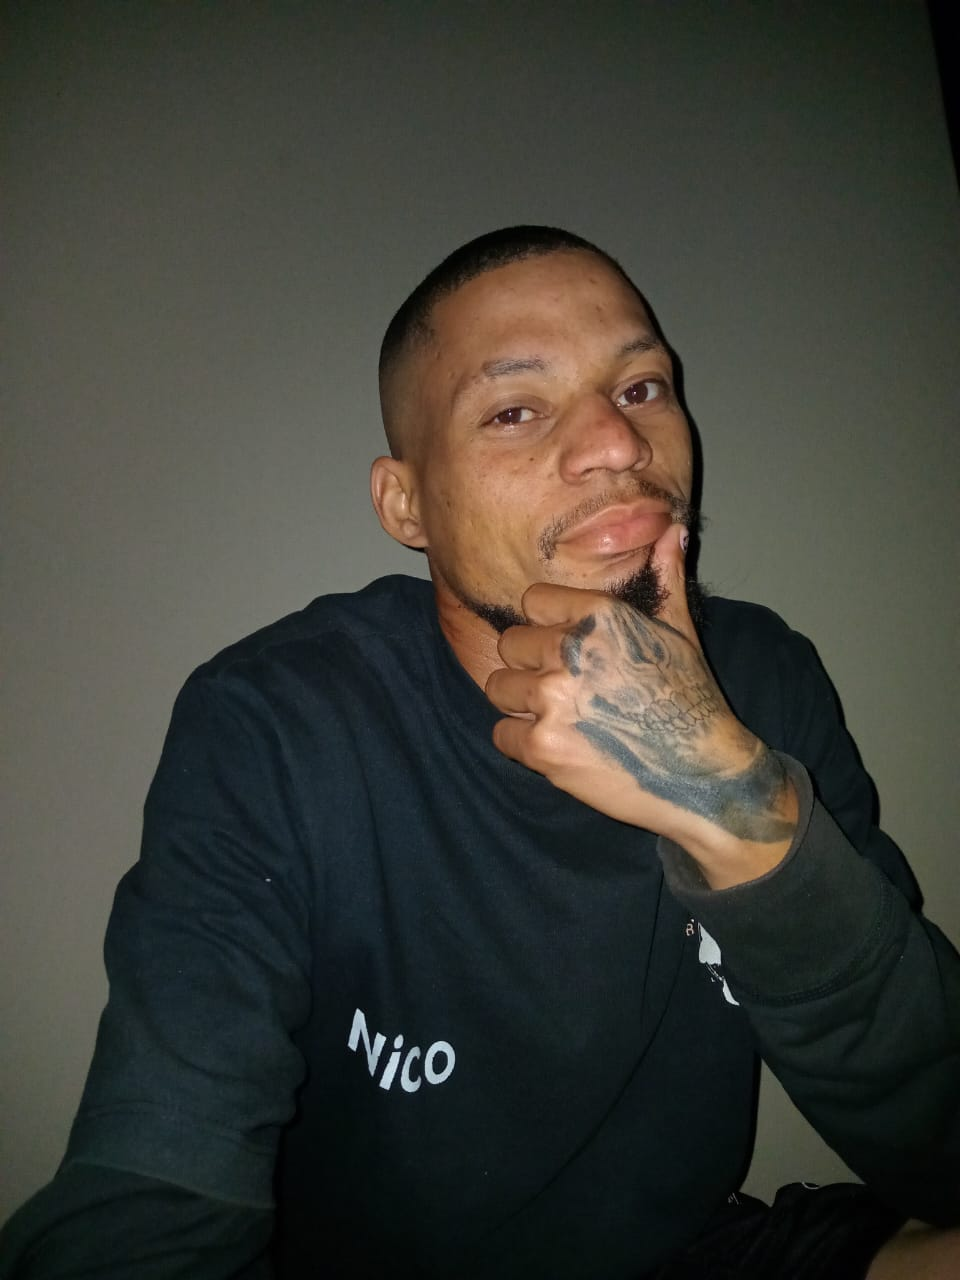
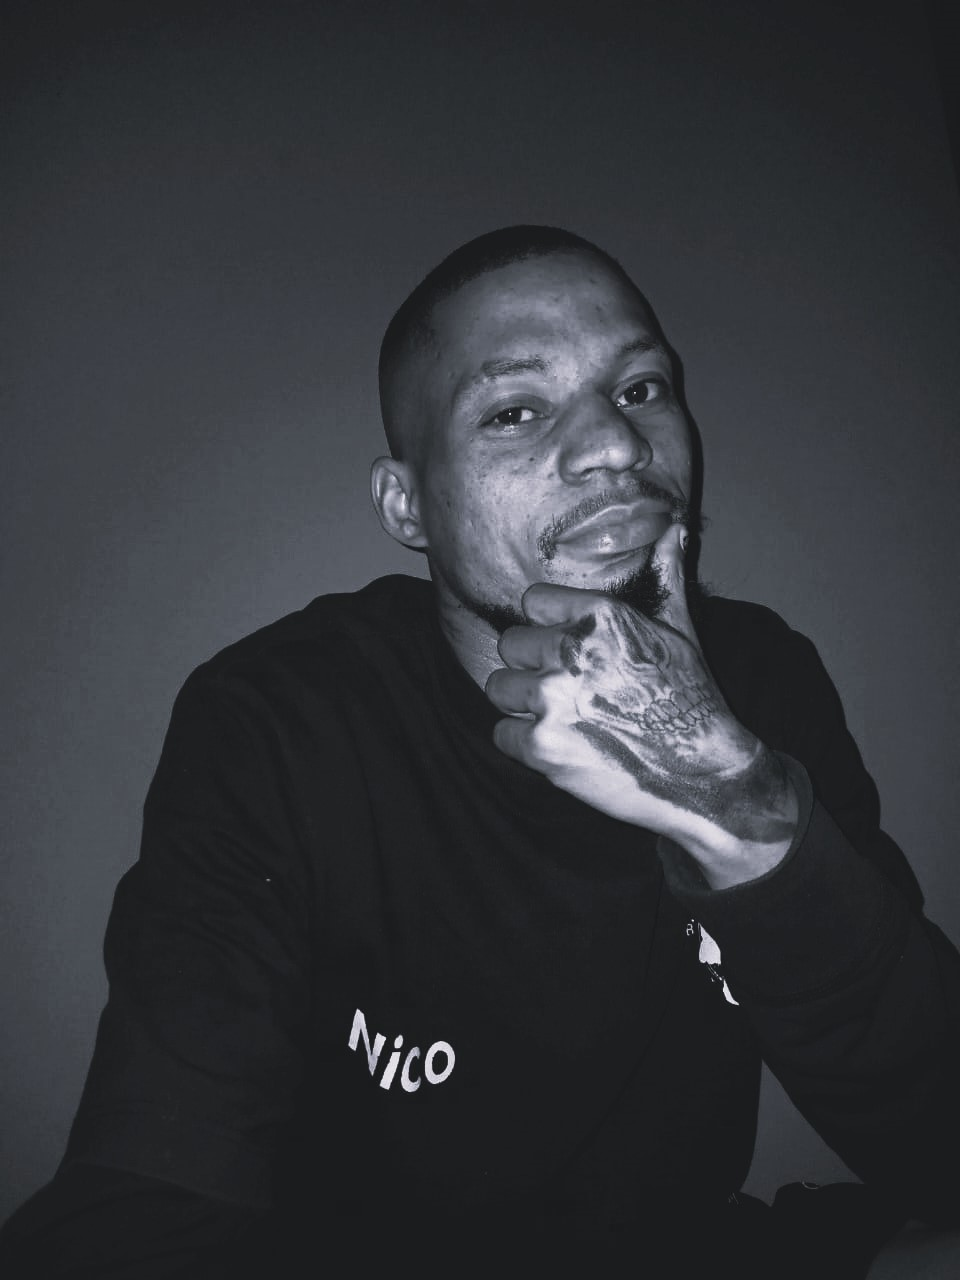
Addition of new artist and their content, font updated completely

diff --git a/app/components/ContactUs.js b/app/components/ContactUs.js
@@ -23,7 +23,7 @@ const contactData = [
     title: 'Phone',
     description: 'Reach out to us by phone',
     actionText: '060 742 6488',
-    actionLink: 'mailto:taglinetattoostudio@gmail.com',
+    actionLink: 'tel:+27607426488',
     icon: (
         <svg xmlns="http://www.w3.org/2000/svg" width="38" height="38" viewBox="0 0 38 38" fill="none">
             <path d="M30.4237 20.5833C30.0846 20.5833 29.73 20.4725 29.3908 20.3933C28.7045 20.2357 28.0297 20.0294 27.3712 19.7758C26.656 19.5086 25.8699 19.5225 25.164 19.8148C24.4582 20.1071 23.8826 20.6572 23.5479 21.3592L23.2087 22.0875C21.7115 21.2154 20.3283 20.1513 19.0925 18.9208C17.8944 17.6516 16.8583 16.231 16.0092 14.6933L16.7183 14.3608C17.4018 14.0171 17.9374 13.4259 18.222 12.701C18.5067 11.9761 18.5202 11.1687 18.26 10.4342C18.0151 9.7518 17.8143 9.05363 17.6587 8.34417C17.5817 7.99584 17.52 7.63167 17.4737 7.28334C17.2865 6.16807 16.7177 5.1581 15.8698 4.4353C15.0219 3.7125 13.9506 3.32439 12.8487 3.34084H8.20832C7.55657 3.33996 6.91201 3.48056 6.31687 3.75343C5.72174 4.02629 5.18948 4.42526 4.75498 4.92417C4.31148 5.43662 3.98125 6.04161 3.78698 6.69756C3.59271 7.35351 3.53901 8.04489 3.62957 8.72417C4.4676 15.3142 7.39927 21.4362 11.97 26.1408C16.5508 30.8351 22.5117 33.846 28.9283 34.7067C29.1284 34.7224 29.3294 34.7224 29.5296 34.7067C30.6664 34.7084 31.7641 34.28 32.6129 33.5033C33.0987 33.0571 33.4871 32.5105 33.7528 31.8992C34.0185 31.288 34.1554 30.626 34.1546 29.9567V25.2067C34.1463 24.1126 33.7705 23.0551 33.0907 22.2127C32.411 21.3704 31.4689 20.7948 30.4237 20.5833ZM31.1791 30.0833C31.1786 30.3043 31.1331 30.5227 31.0455 30.7245C30.9579 30.9263 30.8301 31.107 30.6704 31.255C30.5014 31.4131 30.3004 31.5306 30.0817 31.5991C29.8631 31.6676 29.6323 31.6852 29.4062 31.6508C23.6532 30.8792 18.3066 28.1865 14.19 23.9875C10.0698 19.756 7.4252 14.2458 6.66665 8.31251C6.63316 8.08028 6.65037 7.84332 6.71702 7.61877C6.78368 7.39422 6.89813 7.1877 7.05207 7.01417C7.19794 6.84816 7.3764 6.71577 7.57569 6.62571C7.77499 6.53565 7.99059 6.48997 8.20832 6.49167H12.8333C13.1897 6.48273 13.5381 6.6009 13.8192 6.82607C14.1002 7.05124 14.2967 7.3695 14.375 7.72667C14.375 8.15417 14.5137 8.59751 14.6062 9.025C14.7844 9.85446 15.0214 10.6694 15.3154 11.4633L13.1571 12.5083C12.7861 12.6832 12.4978 13.0021 12.3554 13.395C12.2012 13.7805 12.2012 14.2129 12.3554 14.5983C14.5742 19.4794 18.3945 23.4029 23.1471 25.6817C23.5224 25.84 23.9434 25.84 24.3187 25.6817C24.7013 25.5354 25.0118 25.2393 25.1821 24.8583L26.1533 22.6417C26.9487 22.9395 27.7624 23.1828 28.5891 23.37C28.99 23.465 29.4217 23.5442 29.8379 23.6075C30.1857 23.6879 30.4956 23.8897 30.7148 24.1784C30.934 24.467 31.0491 24.8248 31.0404 25.1908L31.1791 30.0833ZM22.0833 3.16667C21.7287 3.16667 21.3587 3.16667 21.0042 3.16667C20.5953 3.20237 20.217 3.40341 19.9524 3.72558C19.6879 4.04776 19.5588 4.46466 19.5935 4.88459C19.6283 5.30451 19.824 5.69306 20.1377 5.96476C20.4514 6.23645 20.8574 6.36903 21.2662 6.33334H22.0833C24.5366 6.33334 26.8893 7.33423 28.6241 9.11582C30.3588 10.8974 31.3333 13.3138 31.3333 15.8333C31.3333 16.1183 31.3333 16.3875 31.3333 16.6725C31.2991 17.0902 31.4276 17.5048 31.6906 17.8253C31.9536 18.1459 32.3296 18.3463 32.7362 18.3825H32.8596C33.2455 18.3841 33.618 18.237 33.9034 17.9702C34.1889 17.7035 34.3665 17.3364 34.4012 16.9417C34.4012 16.5775 34.4012 16.1975 34.4012 15.8333C34.4012 12.4767 33.104 9.25725 30.7943 6.88225C28.4847 4.50724 25.3516 3.17087 22.0833 3.16667ZM25.1667 15.8333C25.1667 16.2533 25.3291 16.656 25.6182 16.9529C25.9073 17.2499 26.2994 17.4167 26.7083 17.4167C27.1172 17.4167 27.5093 17.2499 27.7984 16.9529C28.0876 16.656 28.25 16.2533 28.25 15.8333C28.25 14.1536 27.6003 12.5427 26.4438 11.355C25.2873 10.1673 23.7188 9.50001 22.0833 9.50001C21.6744 9.50001 21.2823 9.66682 20.9932 9.96375C20.7041 10.2607 20.5417 10.6634 20.5417 11.0833C20.5417 11.5033 20.7041 11.906 20.9932 12.2029C21.2823 12.4999 21.6744 12.6667 22.0833 12.6667C22.9011 12.6667 23.6853 13.0003 24.2636 13.5942C24.8418 14.188 25.1667 14.9935 25.1667 15.8333Z" fill="white"/>
@@ -33,9 +33,9 @@ const contactData = [
   {
     id: 3,
     title: 'Location',
-    description: 'Find us at our Phokeng',
-    actionText: 'Tagline',
-    actionLink: 'mailto:taglinetattoostudio@gmail.com',
+    description: 'Find us at',
+    actionText: 'Tagline Markos',
+    actionLink: 'https://maps.app.goo.gl/mXD1v4SypVxBj9vx8',
     icon: (
         <svg xmlns="http://www.w3.org/2000/svg" width="38" height="38" viewBox="0 0 38 38" fill="none">
             <path d="M31.7091 15.2475C31.4927 12.9341 30.6966 10.7177 29.3984 8.81412C28.1003 6.91054 26.3443 5.38464 24.3014 4.38503C22.2585 3.38541 19.9984 2.94614 17.7412 3.10998C15.4839 3.27383 13.3065 4.03522 11.4208 5.32C9.8008 6.43252 8.44083 7.89972 7.43858 9.6162C6.43633 11.3327 5.81667 13.2558 5.62413 15.2475C5.43524 17.2261 5.67758 19.2231 6.33355 21.0936C6.98953 22.9641 8.04269 24.6611 9.41663 26.0617L17.5875 34.4692C17.7308 34.6176 17.9013 34.7354 18.0892 34.8157C18.277 34.8961 18.4785 34.9375 18.682 34.9375C18.8856 34.9375 19.0871 34.8961 19.2749 34.8157C19.4628 34.7354 19.6333 34.6176 19.7766 34.4692L27.9166 26.0617C29.2906 24.6611 30.3437 22.9641 30.9997 21.0936C31.6557 19.2231 31.898 17.2261 31.7091 15.2475ZM25.7583 23.8292L18.6666 31.1125L11.575 23.8292C10.5298 22.7557 9.72928 21.4578 9.23081 20.0288C8.73233 18.5997 8.54834 17.075 8.69204 15.5642C8.83668 14.0301 9.31143 12.5482 10.082 11.2256C10.8525 9.90299 11.8996 8.77278 13.1475 7.91666C14.7831 6.80079 16.703 6.20555 18.6666 6.20555C20.6302 6.20555 22.5502 6.80079 24.1858 7.91666C25.4299 8.76947 26.4747 9.89469 27.245 11.2115C28.0154 12.5283 28.4922 14.0039 28.6412 15.5325C28.7896 17.0484 28.6079 18.5793 28.1093 20.0142C27.6107 21.4491 26.8076 22.7522 25.7583 23.8292ZM18.6666 9.5C17.2945 9.5 15.9532 9.91787 14.8124 10.7008C13.6715 11.4837 12.7823 12.5965 12.2572 13.8984C11.7321 15.2003 11.5947 16.6329 11.8624 18.015C12.1301 19.3971 12.7908 20.6667 13.7611 21.6631C14.7313 22.6596 15.9674 23.3382 17.3132 23.6131C18.6589 23.888 20.0538 23.7469 21.3215 23.2076C22.5892 22.6684 23.6726 21.7551 24.4349 20.5834C25.1972 19.4117 25.6041 18.0342 25.6041 16.625C25.6001 14.7366 24.8678 12.9268 23.5677 11.5915C22.2675 10.2562 20.5053 9.50418 18.6666 9.5ZM18.6666 20.5833C17.9043 20.5833 17.1592 20.3512 16.5254 19.9162C15.8916 19.4813 15.3976 18.8631 15.1058 18.1398C14.8141 17.4165 14.7378 16.6206 14.8865 15.8528C15.0352 15.0849 15.4023 14.3796 15.9413 13.826C16.4803 13.2724 17.1671 12.8955 17.9147 12.7427C18.6623 12.59 19.4373 12.6684 20.1416 12.968C20.8458 13.2676 21.4477 13.7749 21.8712 14.4259C22.2947 15.0768 22.5208 15.8421 22.5208 16.625C22.5208 17.6748 22.1147 18.6816 21.3919 19.424C20.6691 20.1663 19.6888 20.5833 18.6666 20.5833Z" fill="white"/>
@@ -51,9 +51,9 @@ const ContactCard = ({ title, description, actionText, actionLink, icon }) => (
     tabIndex={0}
   >
     <span>{icon}</span>
-    <h3 className="text-2xl font-semibold text-[#daa520] font-display">{title}</h3>
-    <p className="text-base leading-7 text-[#A3A8A3]">{description}</p>
-    <a className="text-lg font-bold text-white hover:text-[#daa520]" href={actionLink}>
+    <h3 className="text-2xl font-heading font-extrabold text-[#daa520] font-display">{title}</h3>
+    <p className="text-base font-body leading-7 text-[#A3A8A3]">{description}</p>
+    <a className="text-lg font-body font-bold text-white hover:text-[#daa520]" href={actionLink}>
       {actionText}
     </a>
   </div>
@@ -64,7 +64,7 @@ const ContactSection = () => (
   <section id="section6" className="min-h-screen container flex flex-col items-center justify-center gap-16 mx-auto">
     <h2
     className={`
-    text-4xl sm:text-4xl lg:text-5xl font-bold my-10 
+    text-4xl sm:text-4xl lg:text-5xl font-heading font-bold my-10 
     text-white transition-transform duration-700 
     `}
     >

diff --git a/app/components/Gallery.js b/app/components/Gallery.js
@@ -10,10 +10,11 @@ const galleryItems = [
       "/gallery/smalls/image2.jpg",
       "/gallery/smalls/image3.jpg",
       "/gallery/smalls/image4.jpg",
-      "/gallery/smalls/image5.jpg"
+      "/gallery/smalls/image5.jpg",
     ],
     title: "Small and Mini Tattoos",
-    description: "Intricate and delicate designs that make a subtle yet powerful statement.",
+    description:
+      "Intricate and delicate designs that make a subtle yet powerful statement.",
   },
   {
     images: [
@@ -26,20 +27,38 @@ const galleryItems = [
       "/gallery/randoms/image7.jpg",
       "/gallery/randoms/image8.jpg",
       "/gallery/randoms/image9.jpg",
-      "/gallery/randoms/image10.jpg"
+      "/gallery/randoms/image10.jpg",
     ],
     title: "Medium to Large Tattoos",
-    description: "Unique and spontaneous designs that capture individual creativity.",
+    description:
+      "Unique and spontaneous designs that capture individual creativity.",
   },
   {
     images: [
       "/gallery/sleeves/image1.jpg",
       "/gallery/sleeves/image2.jpg",
       "/gallery/sleeves/image3.jpg",
-      "/gallery/sleeves/image4.jpg"
+      "/gallery/sleeves/image4.jpg",
     ],
     title: "Sleeves",
-    description: "Comprehensive and detailed full/half-arm artworks that tell a complete story.",
+    description:
+      "Comprehensive and detailed full/half-arm artworks that tell a complete story.",
+  },
+  {
+    images: [
+      "/gallery/cuts/1.jpg",
+      "/gallery/cuts/2.jpg",
+      "/gallery/cuts/3.jpg",
+      "/gallery/cuts/4.jpg",
+      "/gallery/cuts/5.jpg",
+      "/gallery/cuts/6.jpg",
+      "/gallery/cuts/7.jpg",
+      "/gallery/cuts/8.jpg",
+      "/gallery/cuts/9.jpg",
+    ],
+    title: "Cuts",
+    description:
+      "Nico's finest and freshest cuts.",
   },
 ];
 

diff --git a/app/components/ArtistSection.js b/app/components/ArtistSection.js
@@ -32,7 +32,7 @@ export default function ArtistSection({ artists }) {
             ${isVisible ? 'opacity-100 translate-y-0' : 'opacity-0 translate-y-10'}
           `}
         >
-          Our Talented Artists
+          Our Talented Team
         </h2>
         <p 
           className={`
@@ -41,13 +41,13 @@ export default function ArtistSection({ artists }) {
             ${isVisible ? 'opacity-100 translate-y-0' : 'opacity-0 translate-y-10'}
           `}
         >
-            Our team of professional tattoo artists brings your ideas to life with precision, creativity, and passion.
+            Our talented team of professionals bring your ideas to life with precision, creativity, and passion.
             With years of experience and unique styles, we ensure every design is a masterpiece. Whether you&apos;re looking
-            for a minimalist design or a full-sleeve artwork, you&apos;re in expert hands at Tagline Tattoo Studio.
+            for a minimalist design, a full-sleeve artwork or a fresh cut, you&apos;re in expert hands at Tagline Tattoo Studio.
         </p>
 
         {/* Artists Grid */}
-        <div className="grid grid-cols-1 md:grid-cols-2 lg:grid-cols-3 gap-10 lg:mx-15">
+        <div className="grid grid-cols-1 md:grid-cols-2 lg:grid-cols-3 gap-10 lg:mx-15 items-center">
           {artists.map((artist) => (
             <div
               key={artist.name}

diff --git a/app/page.js b/app/page.js
@@ -30,15 +30,15 @@ export default function Home() {
     {
       name: "John D",
       role: "Management",
-      image: "/assets/artists/fancy.jpg",
-      bio: "A rising talent and dedicated apprentice, bringing fresh creativity to small designs with flair and style.",
+      image: "/assets/artists/JohnD.jpg",
+      bio: "The mind behind the message. As our marketing maestro, John brings bold, vibrant ideas and sharp strategy to every move Tagline makes.",
     },
     {
-      name: "Fancy",
-      role: "Apprentice",
-      image: "/assets/artists/fancy.jpg",
-      bio: "A rising talent and dedicated apprentice, bringing fresh creativity to small designs with flair and style.",
-    }
+      name: "Nico de Barber",
+      role: "Barber",
+      image: "/assets/artists/Nico.jpg",
+      bio: "No shortcuts, just finesse. Nico's cuts are clean, sharp, and always speak louder than words. What you see is exactly what you get, and what you get is the best.",
+    },
   ];
 
   return (

diff --git a/app/layout.js b/app/layout.js
@@ -4,7 +4,7 @@ import Footer from "./components/Footer";
 
 export const metadata = {
   title: "Tagline Tattoo Studio",
-  description: "Welcome to the home of the best tattoo experience",
+  description: "Welcome to the home of the best cosmetic experience",
 };
 
 export default function RootLayout({ children }) {

diff --git a/app/globals.css b/app/globals.css
@@ -14,16 +14,6 @@
   }
 }
 
-body {
-  color: var(--foreground);
-  background: var(--background);
-  font-family: Arial, Helvetica, sans-serif;
-}
-
-@tailwind base;
-@tailwind components;
-@tailwind utilities;
-
 @keyframes fadeIn {
   from { opacity: 0; }
   to { opacity: 1; }
